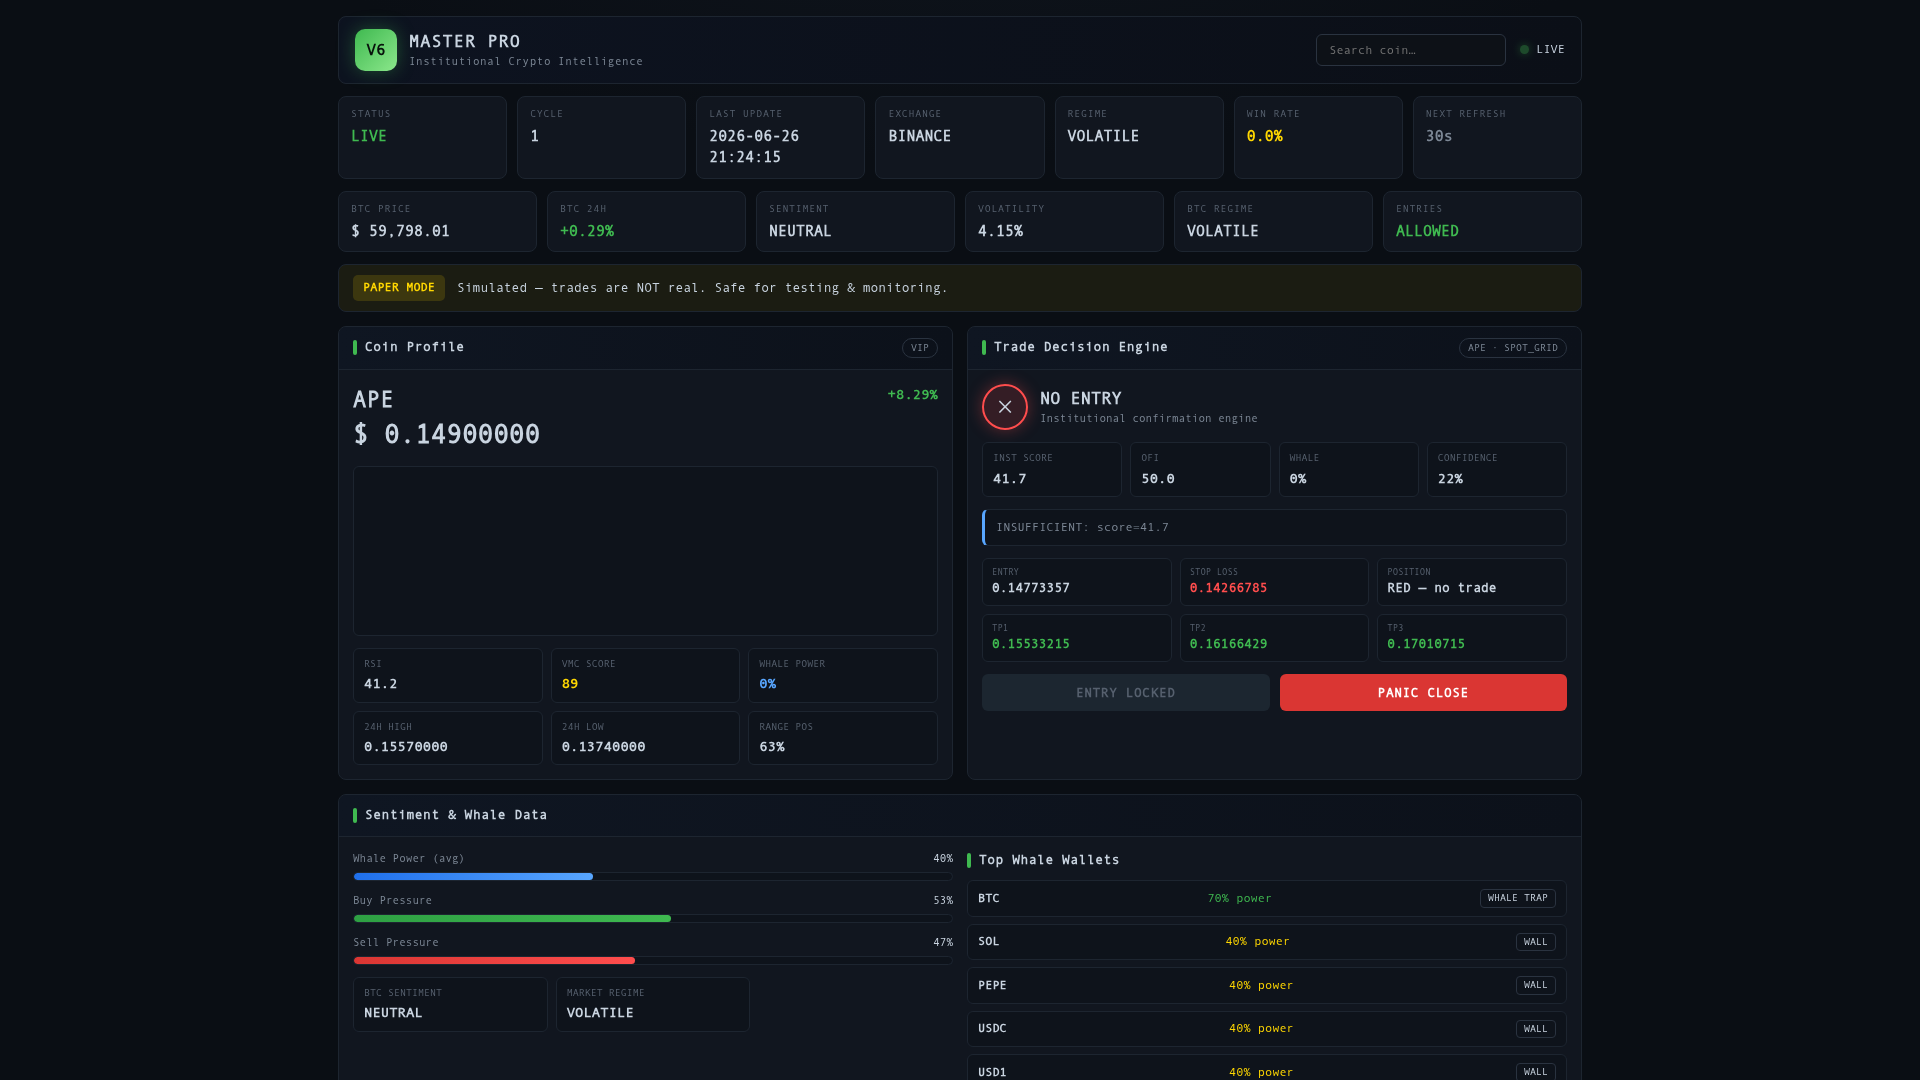
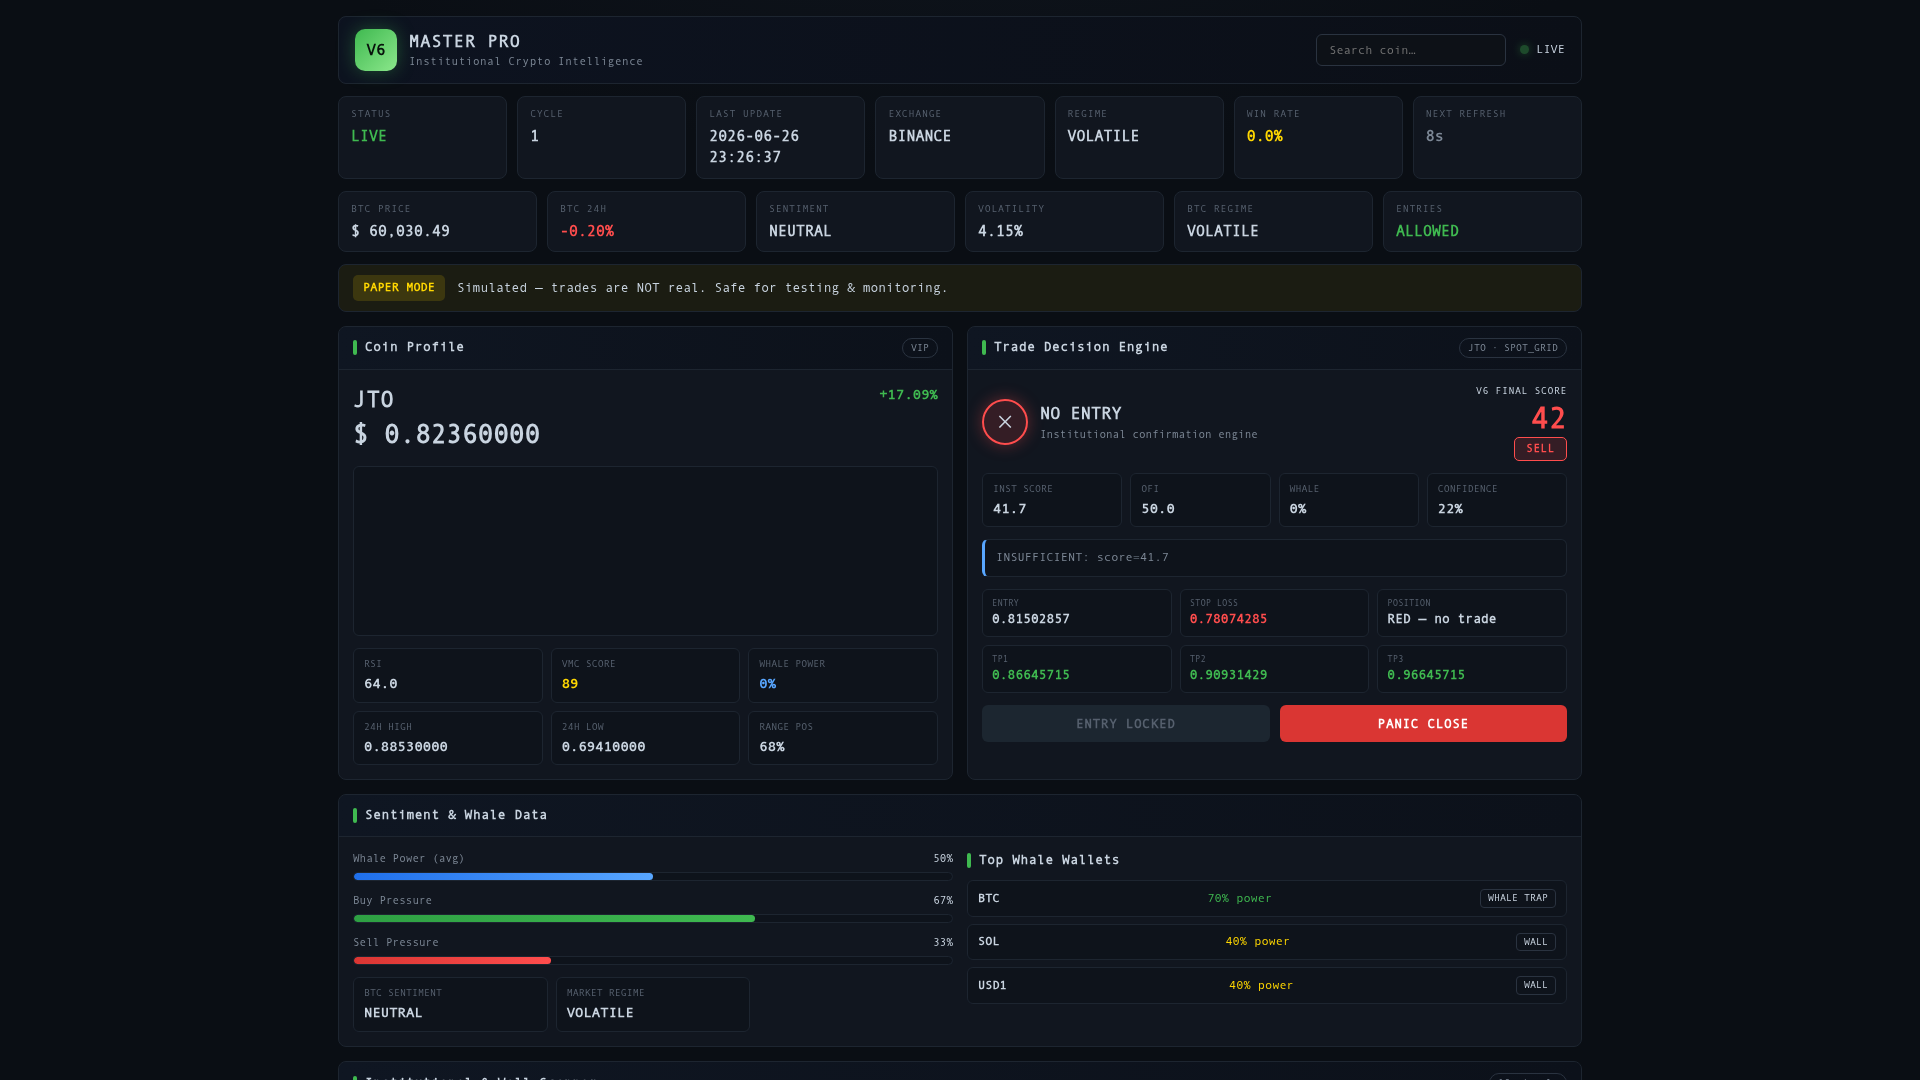
Add a detailed scoring system and fix volume data retrieval
Implement a new 54-point scoring engine and correct the data source for volume information.

Replit-Commit-Author: Agent
Replit-Commit-Session-Id: be32f168-d16d-4131-b2b5-eff7703ee3bd
Replit-Commit-Checkpoint-Type: full_checkpoint
Replit-Commit-Event-Id: f97cf696-ec7a-4f79-b1c0-20f988d390f5
Replit-Commit-Screenshot-Url: https://storage.googleapis.com/screenshot-production-us-central1/96e45e93-5690-48cf-b9a9-a27b3c00e2b2/be32f168-d16d-4131-b2b5-eff7703ee3bd/AFvJ1v2
Replit-Helium-Checkpoint-Created: true

diff --git a/V6_Master_Pro_UI/script.js b/V6_Master_Pro_UI/script.js
@@ -240,6 +240,19 @@
     const sz = (c && c.sizing) || {};
     set("tde-position", sz.alloc_usdt ? "$" + sz.alloc_usdt.toFixed(2) + " (" + (sz.alloc_pct || 0).toFixed(1) + "%)" : (sz.note || "No allocation"));
 
+    const v6 = (c && c.v6) || null;
+    if (v6) {
+      set("tde-v6", v6.score);
+      const vn = $("tde-v6");
+      if (vn) vn.className = "v6-num " + (v6.label === "BUY" ? "up" : v6.label === "SELL" ? "down" : "gold");
+      const bd = $("tde-badge");
+      if (bd) { bd.className = "badge " + (v6.badge || "badge-wait"); bd.textContent = v6.label || "—"; }
+    } else {
+      set("tde-v6", "—");
+      const bd = $("tde-badge");
+      if (bd) { bd.className = "badge badge-wait"; bd.textContent = "—"; }
+    }
+
     const exec = $("btn-execute");
     if (exec) {
       exec.disabled = traffic !== "GREEN";
@@ -292,12 +305,13 @@
     const rows = (d.inst_signals || []).slice(0, (CFG.layout && CFG.layout.tableMaxRows) || 25);
     set("inst-count", (d.inst_signals || []).length + " signals");
     if (!rows.length) {
-      html("inst-body", '<tr class="empty-row"><td colspan="11">Computing institutional signals…</td></tr>');
+      html("inst-body", '<tr class="empty-row"><td colspan="13">Computing institutional signals…</td></tr>');
       return;
     }
     html("inst-body", rows.map((c, i) => {
       const inst = c.inst || {};
       const z = c.tp_zones || {};
+      const v6 = c.v6 || null;
       const tr = ({ GREEN: "GREEN", YELLOW: "YELLOW", RED: "RED" }[inst.traffic]) || "RED";
       return "<tr>" +
         "<td class='dim'>" + (i + 1) + "</td>" +
@@ -311,6 +325,8 @@
         "<td>" + fmtPrice(c.price) + "</td>" +
         "<td class='down'>" + (z.stop_loss ? fmtPrice(z.stop_loss) : "—") + "</td>" +
         "<td class='up'>" + (z.tp1 ? fmtPrice(z.tp1) : "—") + "</td>" +
+        "<td class='" + (v6 ? (v6.label === "BUY" ? "up" : v6.label === "SELL" ? "down" : "gold") : "dim") + "'>" + (v6 ? v6.score : "—") + "</td>" +
+        "<td><span class='badge " + (v6 ? v6.badge : "badge-wait") + "'>" + (v6 ? v6.label : "—") + "</span></td>" +
         "</tr>";
     }).join(""));
   }

diff --git a/V6_Master_Pro_UI/style.css b/V6_Master_Pro_UI/style.css
@@ -271,6 +271,15 @@ table.tbl .sym { font-weight: 700; }
 .tl.YELLOW { background: var(--gold); box-shadow: 0 0 7px var(--gold); }
 .tl.RED { background: var(--red); box-shadow: 0 0 7px var(--red); }
 .pill { font-size: 10px; padding: 2px 7px; border-radius: 4px; border: 1px solid var(--line-2); }
+
+/* ---- V6 Final Score + BUY/SELL/WAIT badges ---- */
+.tde-score { margin-left: auto; text-align: right; display: flex; flex-direction: column; align-items: flex-end; gap: 4px; }
+.tde-score .k { font-size: 10px; color: var(--muted); text-transform: uppercase; letter-spacing: 0.5px; }
+.v6-num { font-size: 30px; font-weight: 800; line-height: 1; }
+.badge { display: inline-block; font-size: 11px; font-weight: 700; padding: 3px 11px; border-radius: 5px; letter-spacing: 0.6px; border: 1px solid transparent; }
+.badge-buy  { color: var(--green); background: rgba(63,185,80,0.16);  border-color: var(--green); }
+.badge-sell { color: var(--red);   background: rgba(255,77,77,0.15);  border-color: var(--red); }
+.badge-wait { color: var(--gold);  background: rgba(255,215,0,0.13);  border-color: var(--gold); }
 .empty-row td { text-align: center; color: var(--txt-mut); padding: 22px; }
 
 /* ---- Smart money ----------------------------------------------------------- */

diff --git a/V6_Master_Pro_UI/index.html b/V6_Master_Pro_UI/index.html
@@ -98,6 +98,11 @@
               <div class="lbl" id="tde-verdict">—</div>
               <div class="sub">Institutional confirmation engine</div>
             </div>
+            <div class="tde-score">
+              <div class="k">V6 Final Score</div>
+              <div class="v6-num gold" id="tde-v6">—</div>
+              <span class="badge badge-wait" id="tde-badge">—</span>
+            </div>
           </div>
           <div class="tde-metrics">
             <div class="stat"><div class="k">Inst Score</div><div class="v" id="tde-inst">—</div></div>
@@ -168,6 +173,7 @@
               <tr>
                 <th>#</th><th>Symbol</th><th>Folder</th><th>Light</th><th>Inst</th>
                 <th>Conf</th><th>Whale</th><th>24h</th><th>Price</th><th>Stop</th><th>TP1</th>
+                <th>V6</th><th>Action</th>
               </tr>
             </thead>
             <tbody id="inst-body"></tbody>

diff --git a/V6_Master_Pro_UI/config.js b/V6_Master_Pro_UI/config.js
@@ -21,7 +21,7 @@ window.V6_CONFIG = {
 
   /* ---- Refresh / polling ------------------------------------------------ */
   refresh: {
-    intervalSec: 30, // how often live data is pulled from the backend
+    intervalSec: 8, // how often live data is pulled from the backend (5-10s live cadence)
   },
 
   /* ---- Coin profile chart ---------------------------------------------- */

diff --git a/logic.py b/logic.py
@@ -235,6 +235,148 @@ def compute_vwap(symbol: str, interval: str = "1h", limit: int = 24) -> float:
         return 0.0
 
 
+def _ema(values: list, period: int) -> list:
+    """Exponential moving average series."""
+    if not values:
+        return []
+    k = 2.0 / (period + 1)
+    out = [values[0]]
+    for v in values[1:]:
+        out.append(v * k + out[-1] * (1 - k))
+    return out
+
+
+def calculate_macd(closes: list, fast: int = 12, slow: int = 26,
+                   signal: int = 9) -> dict:
+    """Standard MACD(12,26,9). Returns macd line, signal line, histogram."""
+    if len(closes) < slow + signal:
+        return {"macd": 0.0, "signal": 0.0, "hist": 0.0}
+    ema_fast = _ema(closes, fast)
+    ema_slow = _ema(closes, slow)
+    macd_line = [f - s for f, s in zip(ema_fast, ema_slow)]
+    signal_line = _ema(macd_line, signal)
+    hist = macd_line[-1] - signal_line[-1]
+    return {"macd": round(macd_line[-1], 8),
+            "signal": round(signal_line[-1], 8),
+            "hist": round(hist, 8)}
+
+
+def fetch_macd_for_symbol(symbol: str, interval: str = "1h",
+                          limit: int = 60) -> dict:
+    klines = fetch_klines(symbol, interval, limit)
+    if not klines:
+        return {"macd": 0.0, "signal": 0.0, "hist": 0.0}
+    return calculate_macd([float(k[4]) for k in klines])
+
+
+# ══════════════════════════════════════════════════════════════════════════════
+# V6 FINAL SCORE — 54-POINT INSTITUTIONAL SCORING ENGINE
+# Market Regime 10 + Institutional/Whale 12 + Technical 12 +
+# Smart-Money Divergence 10 + Trade Engine 10 = 54 raw points, scaled to 0-100.
+# ══════════════════════════════════════════════════════════════════════════════
+
+def compute_v6_final_score(signal: dict, regime: str, btc_volatility_pct: float,
+                           divergence_signal: str, in_volume_surge: bool) -> dict:
+    inst  = signal.get("inst", {}) or {}
+    tp    = signal.get("tp_zones", {}) or {}
+    rsi   = signal.get("rsi", 50) or 50
+    chg   = signal.get("change_pct", 0) or 0
+    price = signal.get("price", 0) or 0
+    macd_hist = signal.get("macd_hist", 0) or 0
+
+    # 1 ── MARKET REGIME (10): trend (5) + volatility quality (5)
+    reg_trend = {"TRENDING": 3, "RANGING": 2, "VOLATILE": 1}.get(regime, 2)
+    reg_trend += 2 if chg > 0.5 else 1 if chg >= -0.5 else 0
+    reg_trend = min(5, reg_trend)
+    v = abs(btc_volatility_pct or 0)
+    reg_vol = 5 if v < 2 else 3 if v < 4 else 2 if v < 6 else 1
+    market_regime = reg_trend + reg_vol
+
+    # 2 ── INSTITUTIONAL / WHALE (12): accumulation (6) + wall support (6)
+    inst_score  = inst.get("inst_score", 0) or 0
+    whale_power = inst.get("whale_power", 0) or 0
+    inst_whale  = (inst_score / 100 * 6) + (whale_power / 100 * 6)
+
+    # 3 ── TECHNICAL (12): RSI (4) + MACD (4) + Volume surge (4)
+    if 40 <= rsi <= 55:
+        rsi_pts = 4
+    elif 55 < rsi <= 62 or 35 <= rsi < 40:
+        rsi_pts = 3
+    elif 30 <= rsi < 35:
+        rsi_pts = 2
+    elif rsi > 70 or rsi < 25:
+        rsi_pts = 0
+    else:
+        rsi_pts = 1
+    macd_rel = (macd_hist / price * 100) if price else 0
+    if macd_rel > 0.05:
+        macd_pts = 4
+    elif macd_rel > 0:
+        macd_pts = 3
+    elif macd_rel == 0:
+        macd_pts = 2
+    elif macd_rel > -0.05:
+        macd_pts = 1
+    else:
+        macd_pts = 0
+    vol_pts   = 4 if in_volume_surge else 1
+    technical = rsi_pts + macd_pts + vol_pts
+
+    # 4 ── SMART-MONEY DIVERGENCE (10): order-flow (6) + price/volume div (4)
+    ofi = inst.get("ofi_score", 50) or 50
+    if divergence_signal == "ACCUMULATION":
+        div_pts = 4
+    elif divergence_signal == "DISTRIBUTION":
+        div_pts = 0
+    else:
+        div_pts = 2
+    smart_divergence = (ofi / 100 * 6) + div_pts
+
+    # 5 ── TRADE ENGINE (10): R/R ratio (5) + execution traffic light (5)
+    entry  = tp.get("entry_low") or price
+    sl     = tp.get("stop_loss") or 0
+    tp1    = tp.get("tp1") or 0
+    risk   = entry - sl
+    reward = tp1 - entry
+    rr     = reward / risk if risk > 0 else 0
+    if rr >= 2:
+        rr_pts = 5
+    elif rr >= 1.5:
+        rr_pts = 4
+    elif rr >= 1:
+        rr_pts = 3
+    elif rr > 0:
+        rr_pts = 1
+    else:
+        rr_pts = 0
+    traffic = inst.get("traffic", "RED")
+    tr_pts  = 5 if traffic == "GREEN" else 2 if traffic == "YELLOW" else 0
+    trade_engine = rr_pts + tr_pts
+
+    raw   = market_regime + inst_whale + technical + smart_divergence + trade_engine
+    score = max(0, min(100, round(raw / 54 * 100)))
+    if score >= 68:
+        label, badge = "BUY", "badge-buy"
+    elif score >= 45:
+        label, badge = "WAIT", "badge-wait"
+    else:
+        label, badge = "SELL", "badge-sell"
+    return {
+        "score": score,
+        "raw":   round(raw, 1),
+        "rr":    round(rr, 2),
+        "label": label,
+        "badge": badge,
+        "breakdown": {
+            "market_regime":    round(market_regime, 1),
+            "inst_whale":       round(inst_whale, 1),
+            "technical":        round(technical, 1),
+            "smart_divergence": round(smart_divergence, 1),
+            "trade_engine":     round(trade_engine, 1),
+        },
+    }
+
+
 # ══════════════════════════════════════════════════════════════════════════════
 # HISTORICAL BACKTESTER (Binance /api/v3/klines — no external data source needed)
 # ══════════════════════════════════════════════════════════════════════════════

diff --git a/main.py b/main.py
@@ -14,7 +14,8 @@ from logic import (
     compute_institutional_score, compute_tp_levels, compute_position_size,
     compute_whale_power, calculate_atr, fetch_order_book, calculate_obi,
     detect_obi_spike, compute_confidence_score, fetch_ticker_price,
-    detect_market_regime, compute_vwap, detect_rsi_divergence, fetch_klines
+    detect_market_regime, compute_vwap, detect_rsi_divergence, fetch_klines,
+    fetch_macd_for_symbol, compute_v6_final_score,
 )
 
 # ── Logging ───────────────────────────────────────────────────────────────────
@@ -865,6 +866,7 @@ def data_refresh_loop():
                     w_pow  = whale_match.get("whale_power", 0) if whale_match else 0
                     obi_r  = whale_match.get("obi", {"obi": 0}) if whale_match else {"obi": 0}
                     atr    = calculate_atr(sym)
+                    macd_d = fetch_macd_for_symbol(sym)
                     tp     = compute_tp_levels(coin["price"], atr, CONFIG)
                     inst   = compute_institutional_score(coin["score"], w_pow, obi_r, walls, CONFIG)
                     conf   = compute_confidence_score(inst, obi_r, coin["score"])
@@ -873,6 +875,8 @@ def data_refresh_loop():
                         **coin,
                         "folder":     folder,
                         "atr":        atr,
+                        "macd":        macd_d,
+                        "macd_hist":   macd_d.get("hist", 0.0),
                         "tp_zones":   tp,
                         "inst":       inst,
                         "sizing":     sizing,
@@ -883,15 +887,15 @@ def data_refresh_loop():
 
             # ── Agent Self-Upgrade: Volume Surge Detection ─────────────────────
             all_coins = vmc_data.get("ALL", [])
-            volumes   = [c.get("volume", 0) for c in all_coins if c.get("volume", 0) > 0]
+            volumes   = [c.get("volume_usdt", 0) for c in all_coins if c.get("volume_usdt", 0) > 0]
             if volumes:
                 vols_sorted  = sorted(volumes)
                 median_vol   = vols_sorted[len(vols_sorted)//2] if vols_sorted else 1
                 vol_surge_coins = [
-                    {"symbol": c["symbol"], "volume": c.get("volume",0),
-                     "surge_ratio": round(c.get("volume",0) / (median_vol or 1), 2)}
+                    {"symbol": c["symbol"], "volume": c.get("volume_usdt",0),
+                     "surge_ratio": round(c.get("volume_usdt",0) / (median_vol or 1), 2)}
                     for c in all_coins
-                    if c.get("volume", 0) >= median_vol * 2.5 and c.get("volume",0) > 0
+                    if c.get("volume_usdt", 0) >= median_vol * 2.5 and c.get("volume_usdt",0) > 0
                 ]
                 vol_surge_coins.sort(key=lambda x: x["surge_ratio"], reverse=True)
                 GLOBAL_DATA["volume_surge"] = vol_surge_coins[:10]
@@ -938,6 +942,18 @@ def data_refresh_loop():
                 _strat, _sreason = determine_trading_strategy(s, whale_data, _mkt_reg)
                 s["trading_strategy"]        = _strat
                 s["trading_strategy_reason"] = _sreason
+
+            # ── V6 FINAL SCORE: 54-point institutional scoring per coin ───────
+            _btc_now   = GLOBAL_DATA.get("btc", {}) or {}
+            _btc_vol   = _btc_now.get("volatility_pct", 0) or 0
+            _div_map   = {d["symbol"]: d["signal"] for d in smart_div}
+            _surge_set = {v["symbol"] for v in GLOBAL_DATA.get("volume_surge", [])}
+            for s in inst_signals:
+                s["v6"] = compute_v6_final_score(
+                    s, _mkt_reg, _btc_vol,
+                    _div_map.get(s["symbol"], "NONE"),
+                    s["symbol"] in _surge_set,
+                )
 
             GLOBAL_DATA["vmc"]          = vmc_data
             GLOBAL_DATA["whale"]        = whale_data

diff --git a/.agents/memory/v6-final-score.md b/.agents/memory/v6-final-score.md
@@ -1,0 +1,30 @@
+---
+name: V6 Final Score (54-point engine) + coin volume key gotcha
+description: How the 54-point V6 score is computed/wired, plus the volume_usdt schema gotcha that silently zeroed surge detection.
+---
+
+## Coin schema gotcha — use `volume_usdt`, never `volume`
+VMC coin objects (from `categorize_signals` in logic.py) carry 24h quote volume
+under the key **`volume_usdt`** (rounded `quoteVolume`). They do NOT have a
+`volume` key. inst_signals built with `**coin` inherit this.
+**Why it matters:** the volume-surge detector in `data_refresh_loop` originally
+read `c.get("volume", 0)`, so `volume_surge` was ALWAYS empty (every value 0).
+This went unnoticed until the V6 Technical subscore (which depends on
+volume-surge membership) was always starved to its low path.
+**How to apply:** any code reading a coin's traded volume must use
+`c["volume_usdt"]`. Note the WATCH-card / `find_*` coin dicts elsewhere use a
+`volume` key (built separately around logic.py:987) — schemas are NOT uniform,
+so confirm the key for the specific dict you're touching.
+
+## V6 Final Score engine (logic.py `compute_v6_final_score`)
+54 raw points, scaled to 0-100, BUY/WAIT/SELL label + badge-buy/wait/sell class.
+Categories: Market Regime 10 (trend+volatility), Inst/Whale 12 (inst_score 6 +
+whale_power 6), Technical 12 (RSI 4 + MACD 4 + volume-surge 4), Smart Divergence
+10 (ofi_score 6 + ACCUM/DIST 4), Trade Engine 10 (R/R 5 + traffic light 5).
+Thresholds: score>=68 BUY, >=45 WAIT, else SELL.
+MACD is real: `calculate_macd` (EMA 12/26/9) via `fetch_macd_for_symbol` (60
+klines), attached per signal as `macd_hist` in the scan loop. Score is attached
+as `s["v6"]` after inst_signals + smart_div + volume_surge are all built, using a
+divergence map and a surge set keyed by symbol.
+**Frontend:** `/v6/` dashboard binds `c.v6` to the TDE score block and the
+scanner Action/V6 columns; poll cadence lives in config.js `refresh.intervalSec`.

diff --git a/.agents/memory/MEMORY.md b/.agents/memory/MEMORY.md
@@ -5,3 +5,4 @@
 - [Backtest & trade resolution](backtest-and-trade-resolution.md) — conservative intrabar SL-at-open; classify WIN/LOSS by realized PnL; no historical order-book; favorite_coins under vmc section.
 - [Dashboard UI structure](dashboard-ui-structure.md) — index.html JS is ID-only (safe to restructure HTML); Simple View is the default landing overlay; restore #simple-view active after verifying.
 - [V6 modular UI](v6-modular-ui.md) — clean modular rebuild in V6_Master_Pro_UI/ (html/css/js/config split); served NON-destructively at /v6 (legacy / untouched); must use trailing slash /v6/.
+- [V6 Final Score + volume key gotcha](v6-final-score.md) — 54-pt engine (compute_v6_final_score) → BUY/WAIT/SELL; coin volume lives under `volume_usdt` not `volume`.